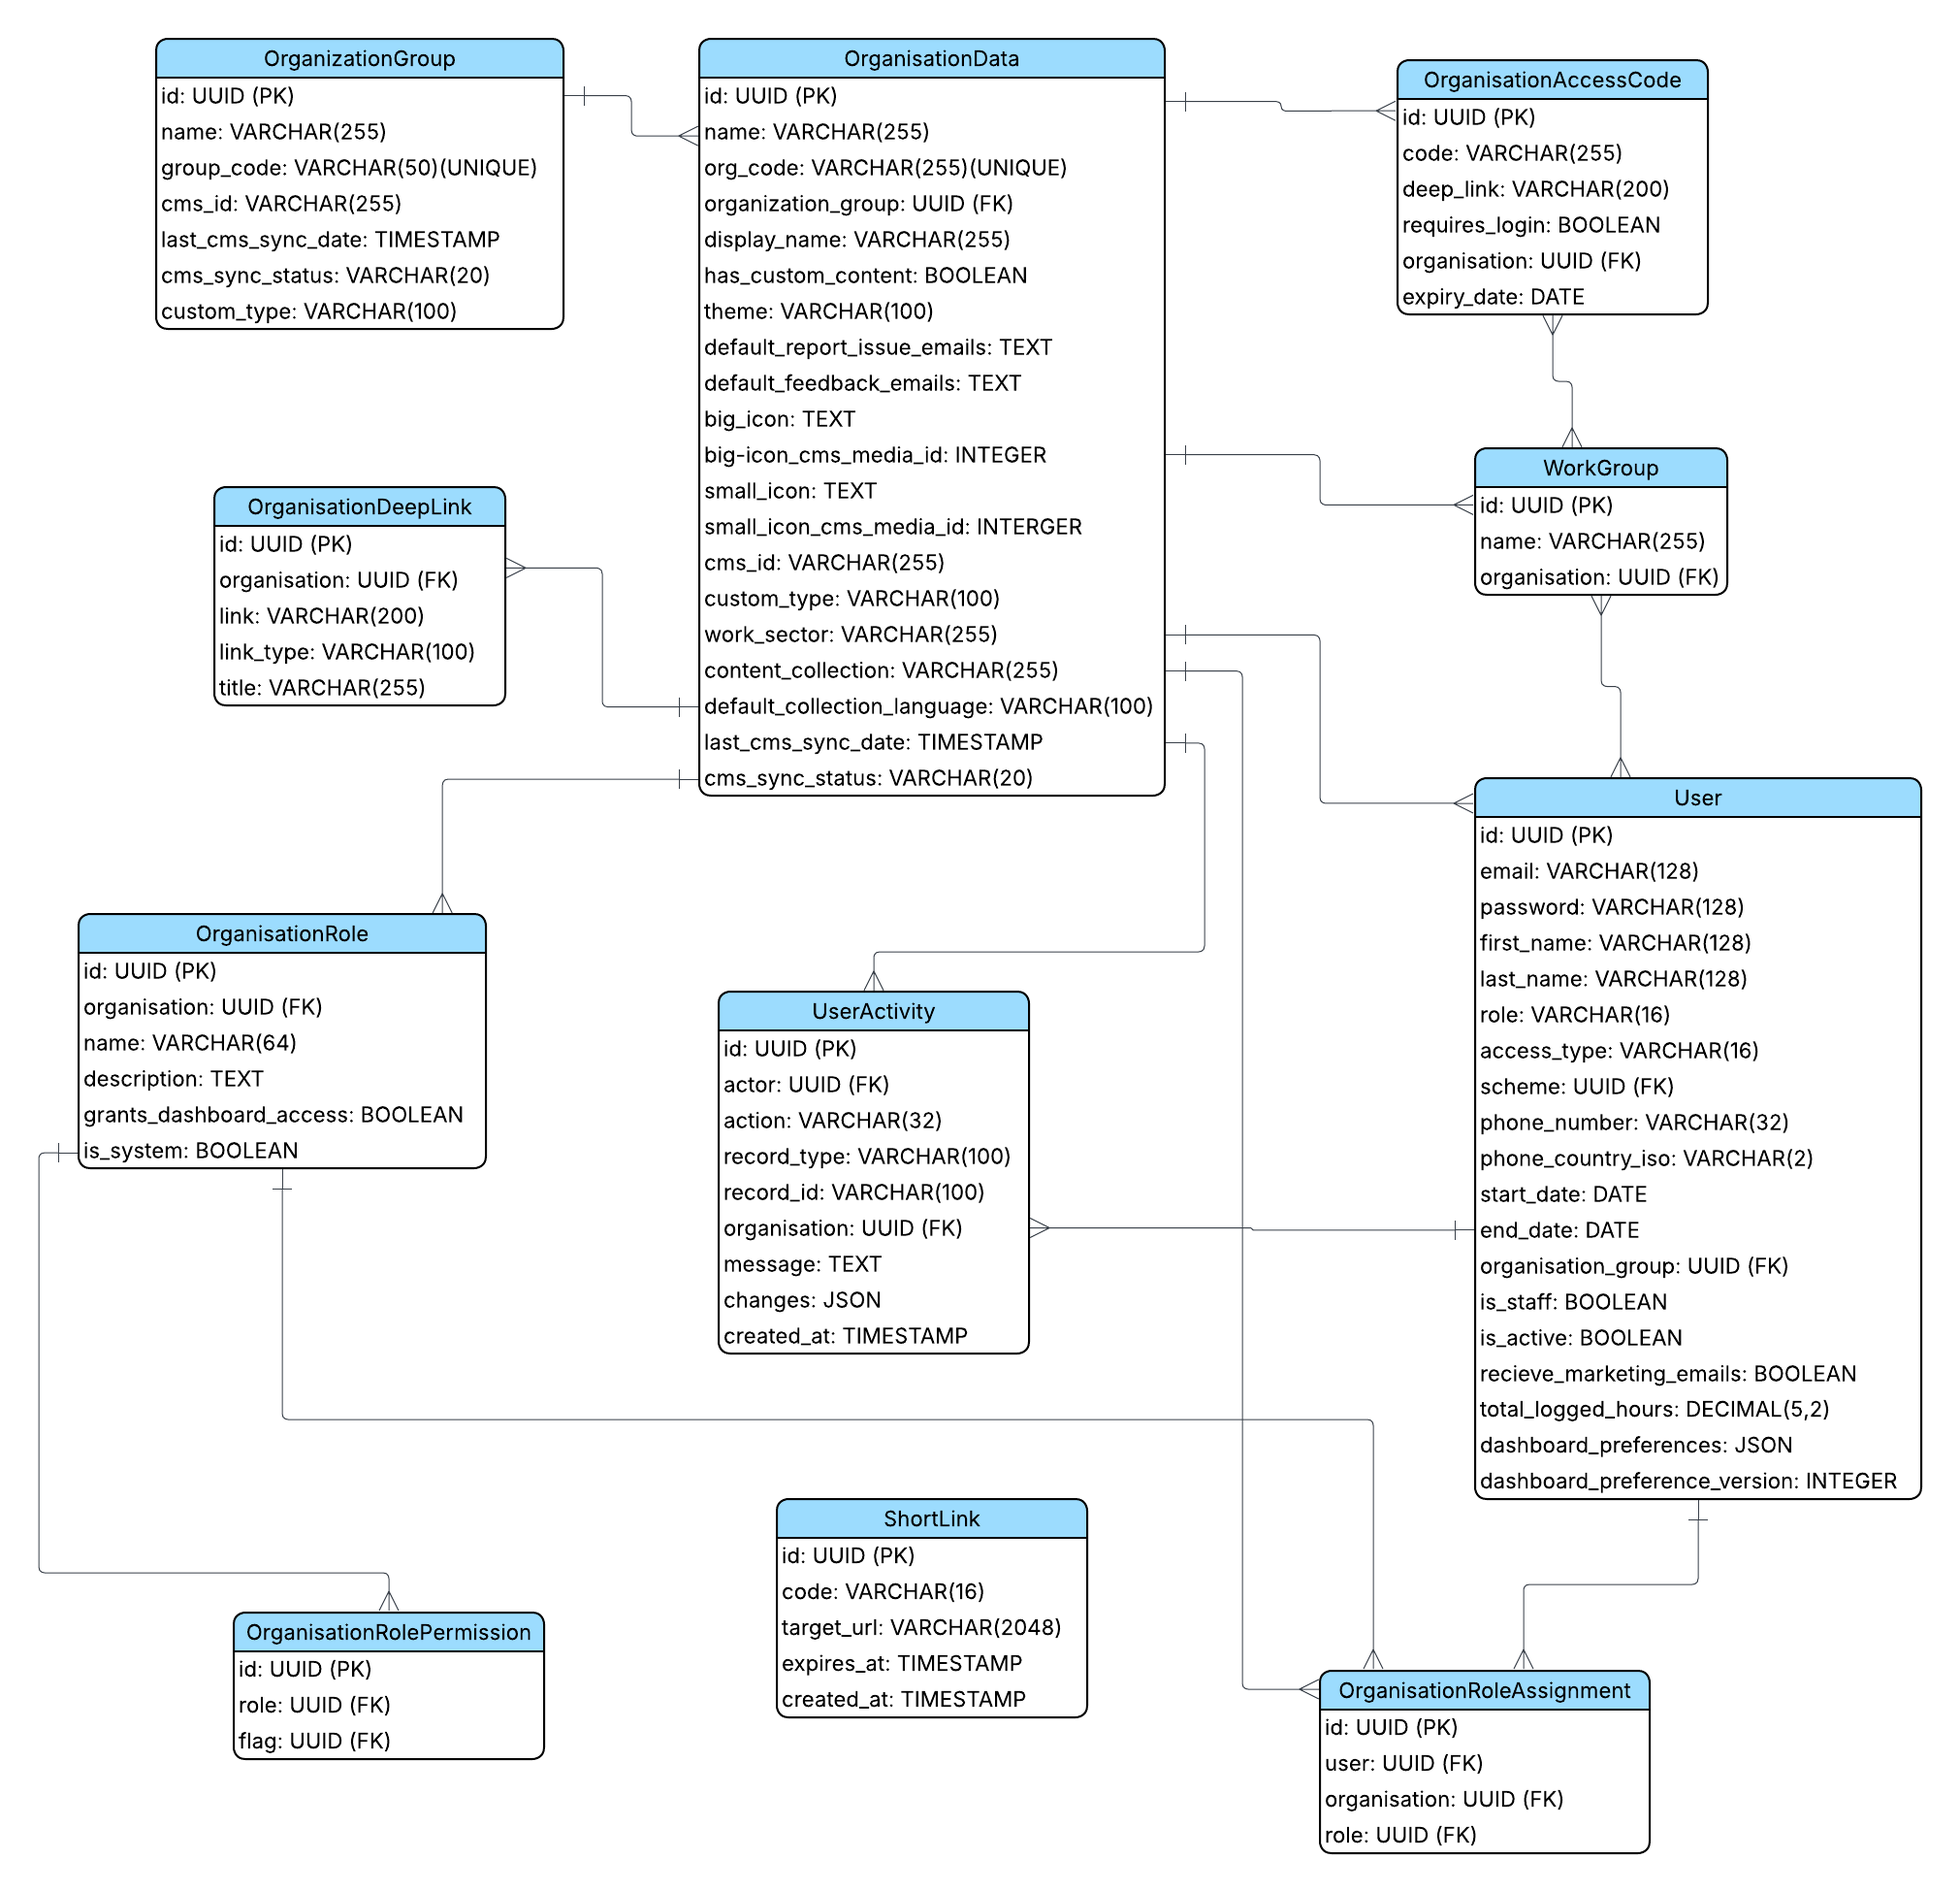
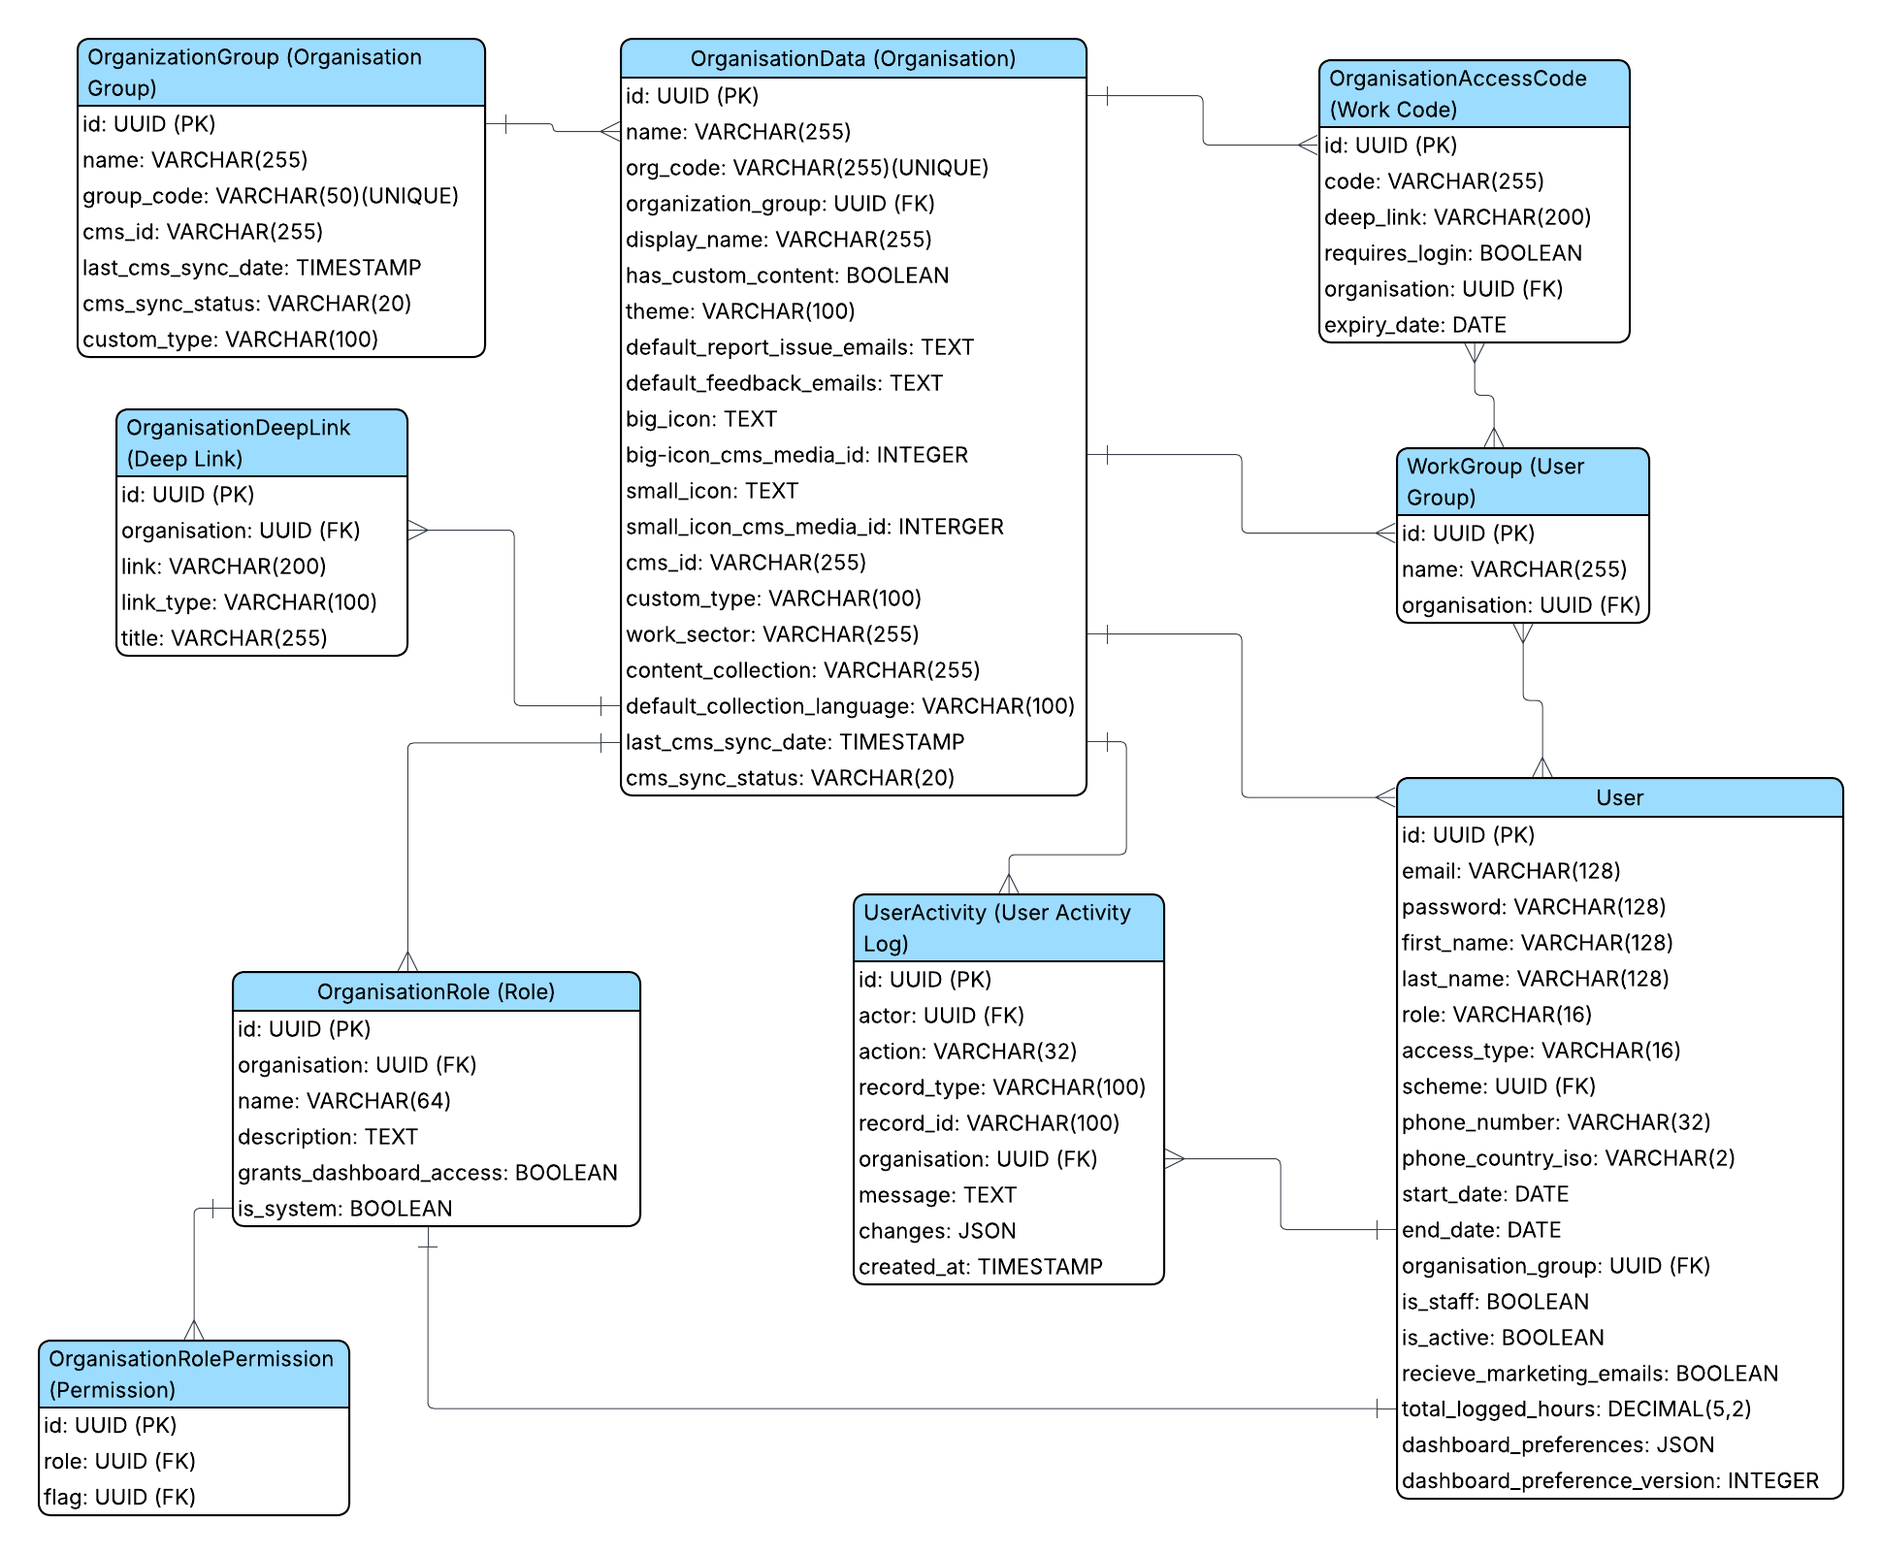
update the ERD

diff --git a/docs/services.py b/docs/services.py
@@ -25,9 +25,9 @@ DOC_PAGES = {
         "title": "Organisation Workflow",
         "path": DOCS_ROOT / "user-management" / "organisation-workflow.md",
     },
-    ("user-management", "model-relationships"): {
-        "title": "Entity  Relationships",
-        "path": DOCS_ROOT / "user-management" / "model-relationships.md",
+    ("user-management", "entity-relationships"): {
+        "title": "Entity Relationships",
+        "path": DOCS_ROOT / "user-management" / "entity-relationships.md",
     },
     ("user-management", "qa-guide"): {
         "title": "QA Guide",

diff --git a/docs/content/user-management/entity-relationships.md b/docs/content/user-management/entity-relationships.md
@@ -18,7 +18,7 @@ An organisation group:
 - can contain many organisations
 - can have many users
 
-#### 2. OrganisationData (Organisations)
+#### 2. OrganisationData (Organisation)
 
 **Database Table:** `preference_organisationdata`
 
@@ -95,21 +95,7 @@ An organisation role permission:
 - belongs to one organisation role
 - belongs to one feature flag
 
-#### 7. OrganisationRoleAssignment
-
-**Database Table:** `user_management_organisationroleassignment`
-
-The `OrganisationRoleAssignment` model assigns an organisation role to a user within a specific organisation.
-
-**Relationships**
-
-An organisation role assignment:
-
-- belongs to one user
-- belongs to one organisation
-- belongs to one role
-
-#### 8. OrganisationDeepLink (Organisation QR Code)
+#### 7. OrganisationDeepLink (Deep Link)
 
 **Database Table:** `preference_organisationdeeplink`
 
@@ -123,7 +109,7 @@ An organisation deep link:
 
 - belongs to one organisation
 
-#### 9. UserActivity (User Activity Logs)
+#### 8. UserActivity (User Activity Log)
 
 **Database Table:** `user_management_useractivity`
 
@@ -138,7 +124,7 @@ A user activity record:
 - may reference one organisation
 - may reference one user as the actor
 
-#### 10. User
+#### 9. User
 
 **Database Table:** `users_user`
 
@@ -157,13 +143,3 @@ A user:
 **Implementation note**
 
 Although `User.organisation_data` is a many-to-many relationship in the schema, current User Management flows only assign one organisation per organisation user at a time. That single-organisation rule is enforced in the application logic, not by the database relationship itself.
-
-#### 11. ShortLink
-
-**Database Table:** `user_management_shortlink`
-
-The `ShortLink` model stores shortened URLs. It generates a unique code that redirects users to a longer target URL. Short links can optionally expire after a specified date and time.
-
-**Relationships**
-
-- This model does not have direct relationships with the other User Management models.
